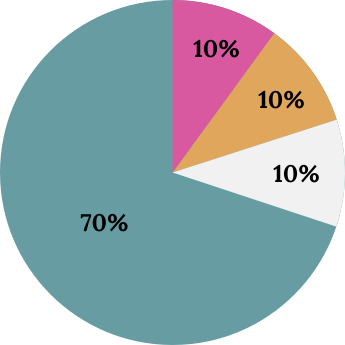
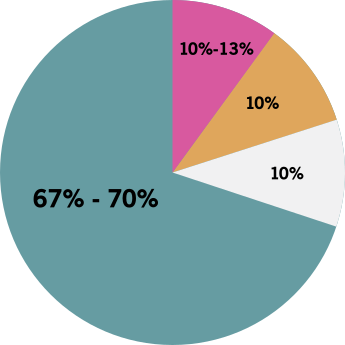
founders to sale and updated % in pie-chart

diff --git a/pages/sale.vue b/pages/sale.vue
@@ -40,7 +40,7 @@ const bullets = [
 
 const chartLegend = [
   {label: "LPers", color: "bg-[#669ca2]"},
-  {label: "Founders", color: "bg-[#d8599f]"},
+  {label: "Sale", color: "bg-[#d8599f]"},
   {label: "Treasury", color: "bg-[#dfa65c]"},
   {label: "Pre-launch contributors", color: "bg-[#f3f3f1]"},
 ]
